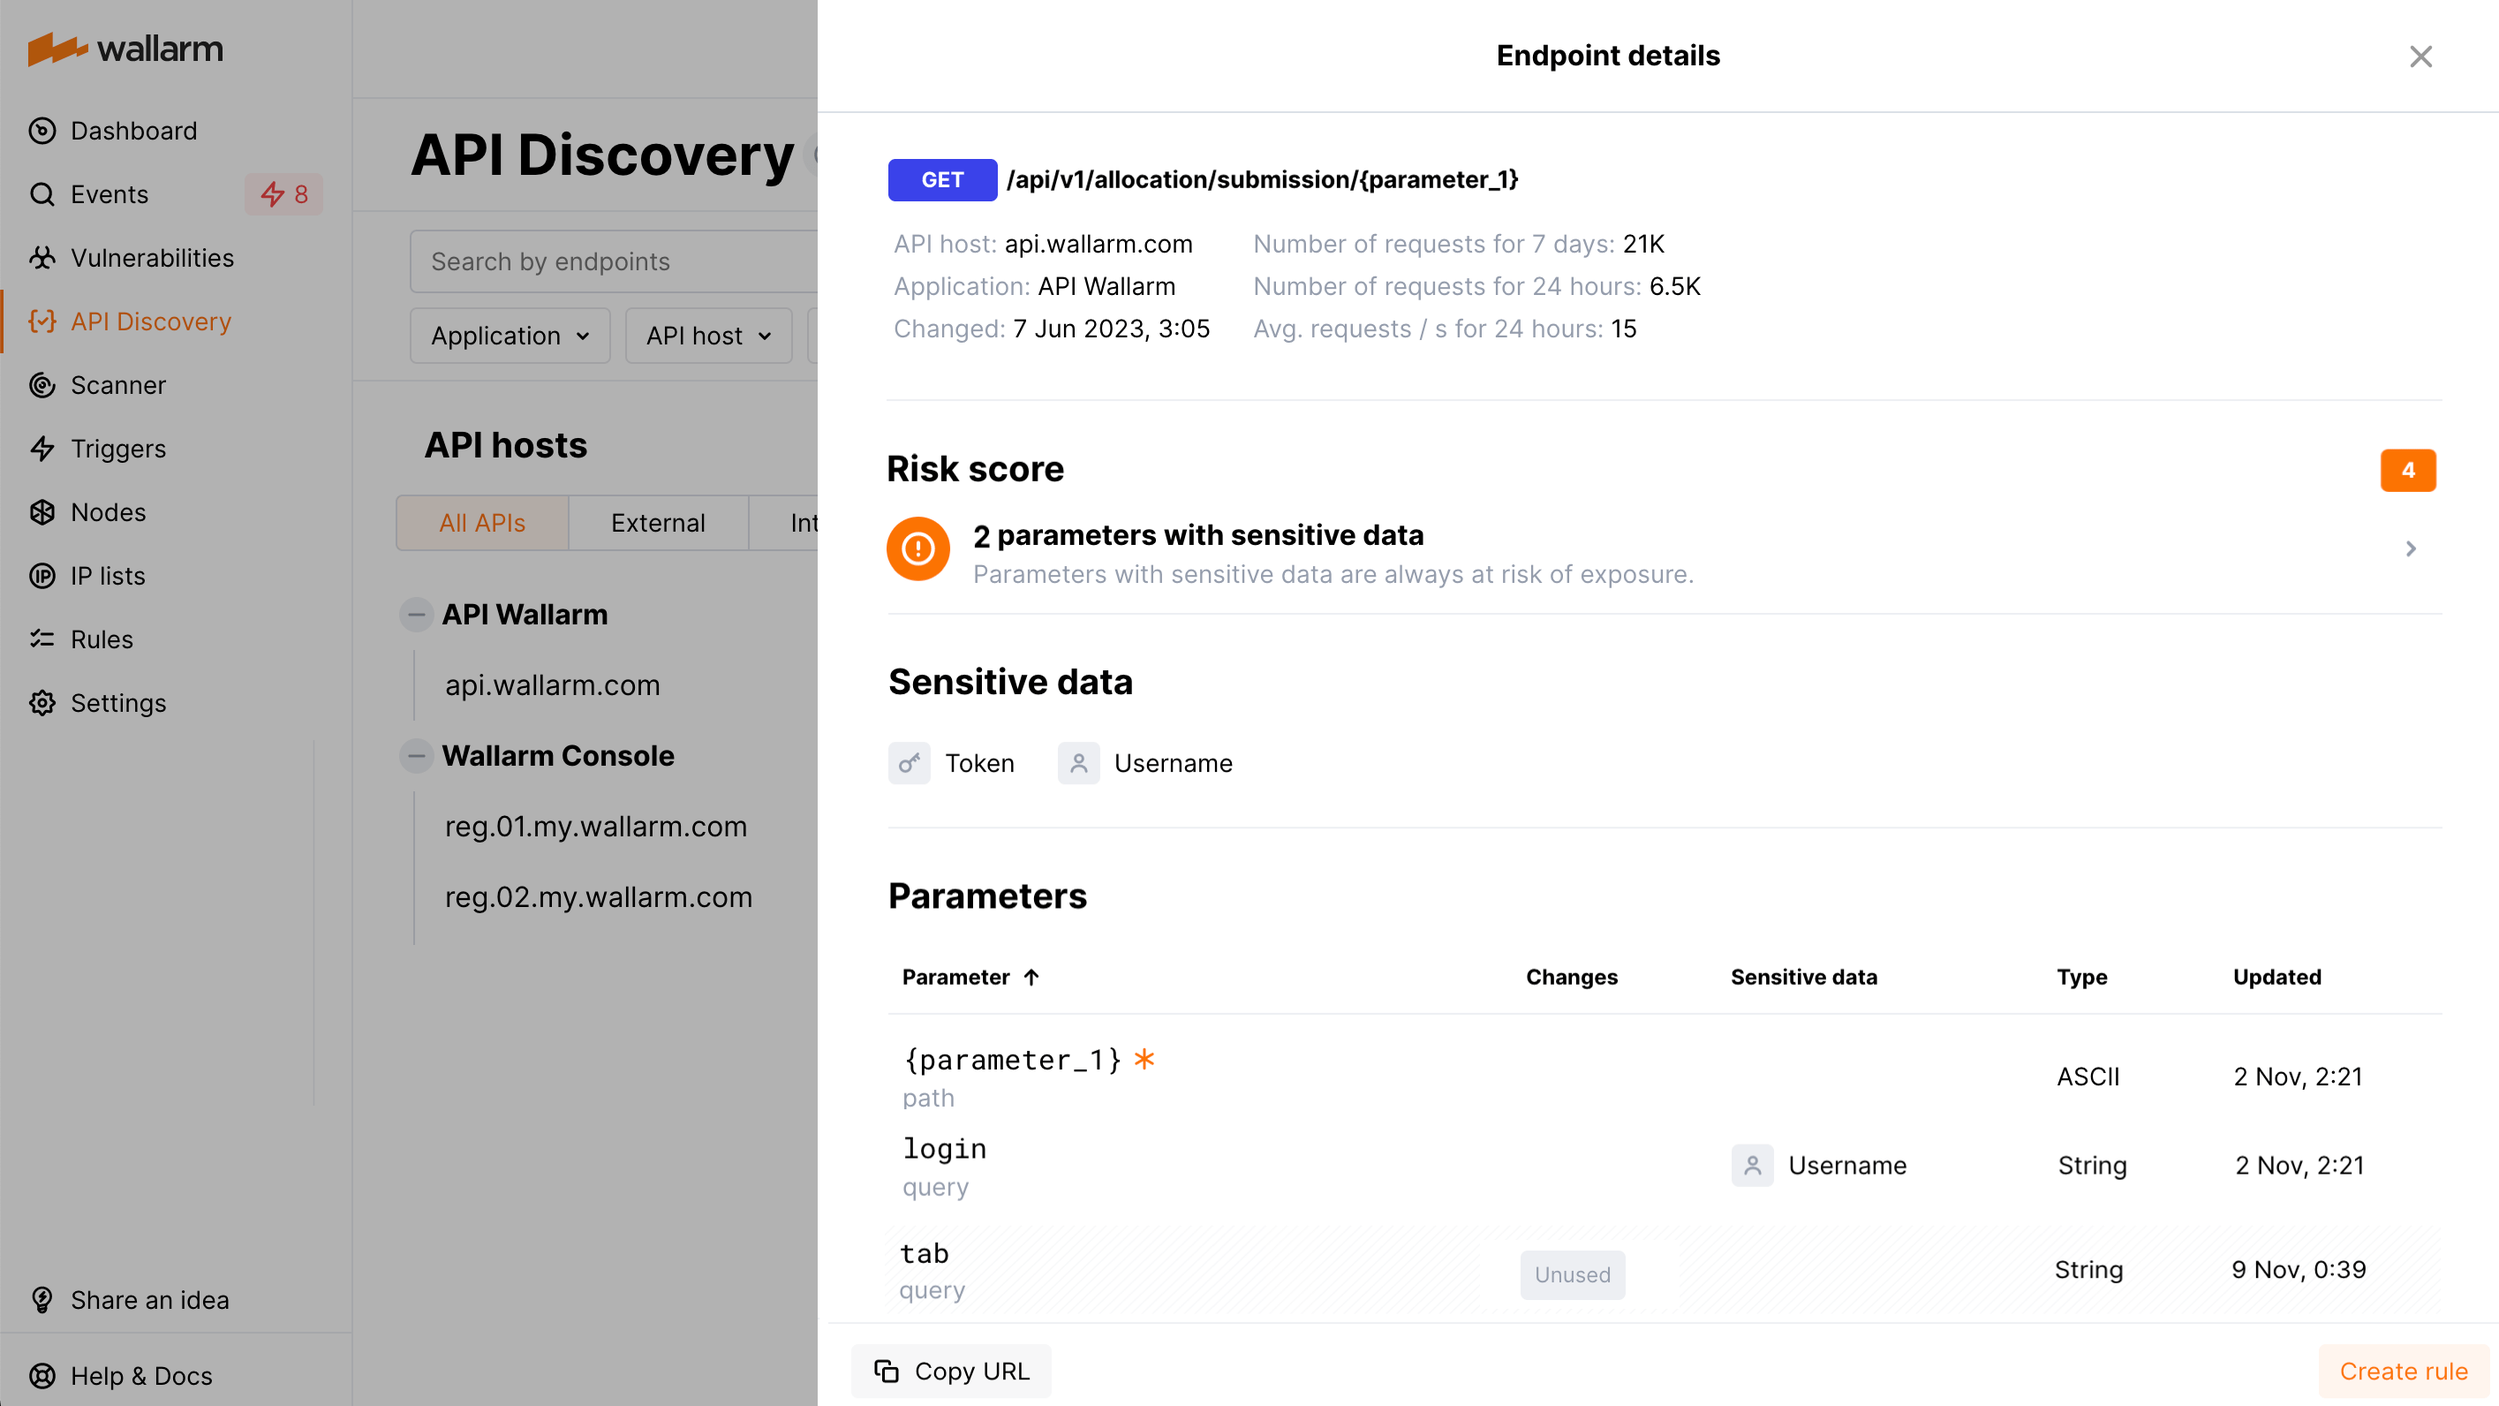
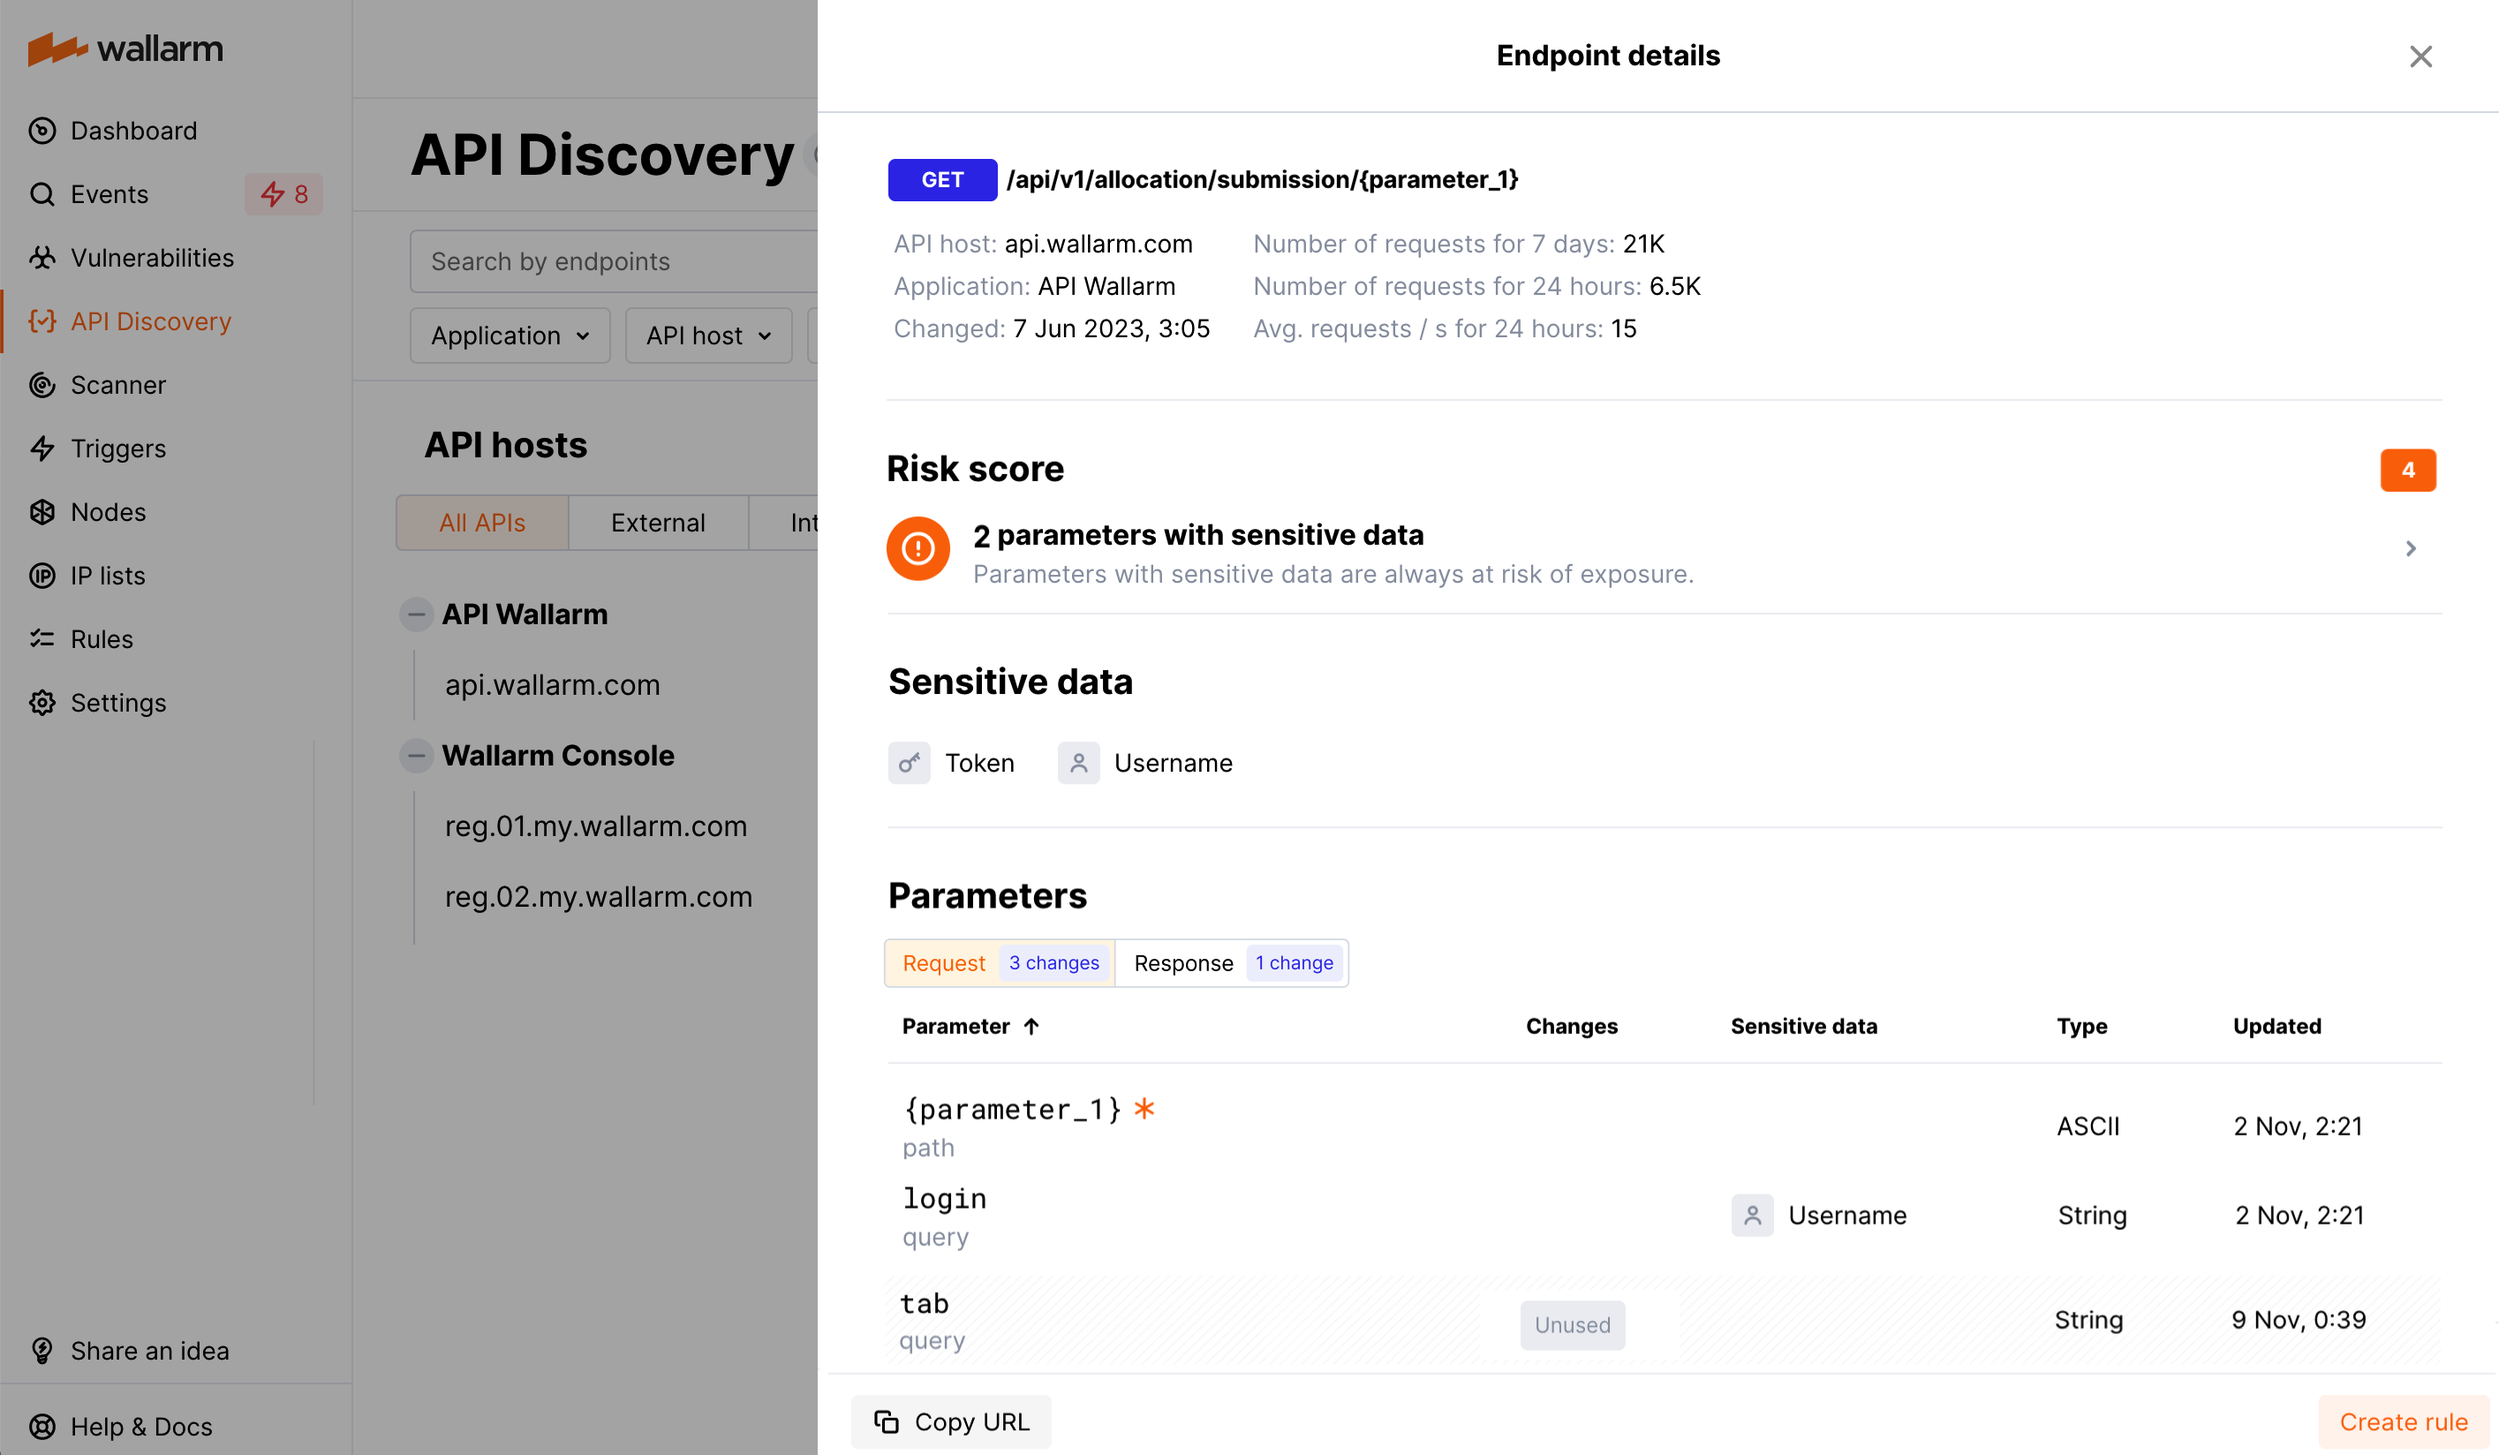
DOCS-2190 APID response parsing

diff --git a/docs/latest/about-wallarm/api-discovery.md b/docs/latest/about-wallarm/api-discovery.md
@@ -15,7 +15,7 @@ Since the API Discovery module uses the real traffic as a data source, it helps 
 **As you have your API inventory discovered by Wallarm, you can**:
 
 * Have a full visibility into the whole API estate including the list of [external and internal](#external-and-internal-apis) APIs.
-* See what data is [going into the APIs](../user-guides/api-discovery.md#params).
+* See [what data](../user-guides/api-discovery.md#params) is going into and out of the APIs.
 * Understand which endpoints are [most likely](#endpoint-risk-score) to be an attack target.
 * View most attacked APIs for the last 7 days.
 * Filter out only attacked APIs, sort them by number of hits.
@@ -35,7 +35,7 @@ API Discovery relies on request statistics and uses sophisticated algorithms to 
 
 API Discovery uses a hybrid approach to conduct analysis locally and in the Cloud. This approach enables a [privacy-first process](#security-of-data-uploaded-to-the-wallarm-cloud) where request data and sensitive data are kept locally while using the power of the Cloud for the statistics analysis:
 
-1. API Discovery analyzes legitimate traffic locally. Wallarm analyzes the endpoints to which requests are made and what parameters are passed.
+1. API Discovery analyzes legitimate traffic locally. Wallarm analyzes the endpoints to which requests are made and what parameters are passed and returned.
 1. According to this data, statistics are made and sent to the Сloud.
 1. Wallarm Cloud aggregates the received statistics and builds an [API description](../user-guides/api-discovery.md) on its basis.
 
@@ -49,7 +49,7 @@ The API Discovery module bases noise detection on the two major traffic paramete
 * Endpoint stability - at least 5 requests must be recorded within 5 minutes from the moment of the first request to the endpoint.
 * Parameter stability - the occurrence of the parameter in requests to the endpoint must be more than 1 percent.
 
-The API inventory will display the endpoints and parameters that exceeded these limits. The time required to build the complete API inventory depends on the traffic diversity and intensity. 
+The API inventory will display the endpoints and request parameters that exceeded these limits. The time required to build the complete API inventory depends on the traffic diversity and intensity.
 
 Also, the API Discovery performs filtering of requests relying on the other criteria:
 
@@ -63,7 +63,7 @@ The API inventory includes the following elements:
 
 * API endpoints
 * Request methods (GET, POST, and others)
-* Required and optional GET, POST, and header parameters including:
+* Required and optional GET, POST, and header parameters of requests and responses including:
     * [Type/format](#parameter-types-and-formats) of data sent in each parameter
     * Presence and type of sensitive data (PII) transmitted by the parameter:
 
@@ -127,7 +127,7 @@ These options are:
 
 * Search and filters.
 * Ability to list internal and external APIs separately.
-* Viewing endpoint parameters.
+* Viewing endpoint request and response parameters.
 * Tracking changes in API.
 * Quick navigation to attacks related to some endpoint.
 * Custom rule creation for the specific endpoint.
@@ -168,7 +168,7 @@ With the **API Discovery** module of Wallarm you can:
 
 * Track changes and check that they do not disrupt current business processes.
 * Make sure that no unknown endpoints have appeared in the infrastructure that could be a potential threat vector.
-* Make sure PII and other unexpected parameters did not start being transferred to the endpoints.
+* Make sure PII and other unexpected parameters did not start being transferred to or from the endpoints.
 * Configure notifications about changes in your API via [triggers](../user-guides/triggers/trigger-examples.md#new-endpoints-in-your-api-inventory) with the **Changes in API** condition.
 
 Learn how to work with the track changes feature in [User guide](../user-guides/api-discovery.md#tracking-changes-in-api).
@@ -198,7 +198,7 @@ The **API Discovery** module unifies such elements into the `{parameter_X}` form
 
 * `/api/articles/author/{parameter_X}`
 
-Click the endpoint to expand its parameters and view which type was automatically detected for the diverse parameter.
+Click the endpoint to expand its request parameters and view which type was automatically detected for the diverse parameter.
 
 ![!API Discovery - Variability in path](../images/about-wallarm-waf/api-discovery/api-discovery-variability-in-path.png)
 

diff --git a/docs/latest/user-guides/api-discovery.md b/docs/latest/user-guides/api-discovery.md
@@ -46,13 +46,13 @@ All filtered data can be exported in the OpenAPI v3 for additional analysis.
 
 ## Viewing endpoint parameters
 
-<a name="params"></a>By clicking the endpoint, you can also find the endpoint details, including request statistics, required and optional parameters with the relevant data types:
+<a name="params"></a>By clicking the endpoint, you can also find the endpoint details, including request statistics, parameters of requests and responses with the relevant data types:
 
 ![!Request parameters discovered by API Discovery](../images/about-wallarm-waf/api-discovery/discovered-request-params.png)
 
-Each parameter information includes:
+Each request/response parameter information (the same? TBD) includes:
 
-* Parameter name and the part of request this parameter belongs to
+* Parameter name and the part of request/response this parameter belongs to
 * Information about parameter changes (new, unused)
 * Presence and type of sensitive data (PII) transmitted by this parameter, including:
 
